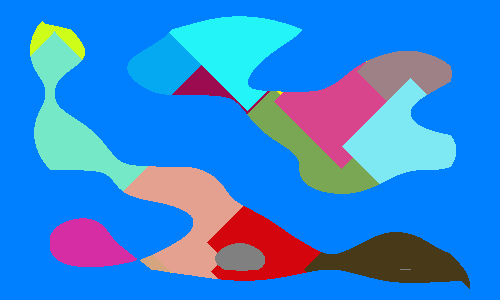
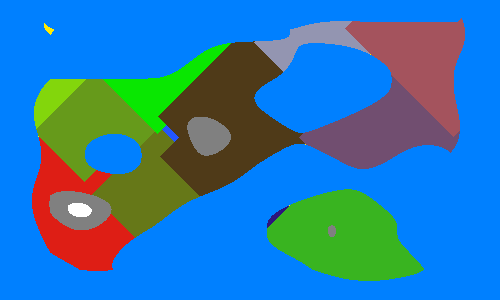
OnClick Province Borders for selected Province (ProvincesMap)

diff --git a/Assets/Provinces/ProvincesMap.cs b/Assets/Provinces/ProvincesMap.cs
@@ -2,14 +2,17 @@ using System.Collections.Generic;
 using UnityEngine;
 using System.Linq;
 using Vector3 = UnityEngine.Vector3;
+using UnityEngine.U2D;
 
 public class ProvincesMap : MonoBehaviour
 {
     public IProvinceDisplayer ProvinceDisplayer;
-    
+
     public HashSet<Province> Provinces = new HashSet<Province>();
-    
+
     private Texture2D mapImage;
+
+    public Province selectedProvince;
 
     public void ShowTerrain()
     {
@@ -35,15 +38,104 @@ public class ProvincesMap : MonoBehaviour
         if (Input.GetMouseButtonDown(0))
         {
             var clickedProvince = GetProvince(Input.mousePosition);
-            //Debug.Log(clickedProvince.Name);
+            var texture = GetComponent<SpriteRenderer>().sprite.texture;
+            var pixels = texture.GetPixels32();
+            if (clickedProvince == null)
+            {
+                if (this.selectedProvince == null)
+                {
+                    return;
+                }
+
+                pixels = this.selectedProvince.Deselect(pixels, new Vector2(texture.width, texture.height));
+                texture.SetPixels32(pixels);
+                texture.Apply();
+                this.selectedProvince = null;
+                return;
+            }
+
+            if (this.selectedProvince != null)
+            {
+                pixels = this.selectedProvince.Deselect(pixels, new Vector2(texture.width, texture.height));
+                texture.SetPixels32(pixels);
+                texture.Apply();
+            }
+
+            pixels = clickedProvince.Select(pixels, new Vector2(texture.width, texture.height));
+            texture.SetPixels32(pixels);
+            texture.Apply();
+            this.selectedProvince = clickedProvince;
             this.ProvinceDisplayer.DisplayProvince(clickedProvince);
         }
+    }
+
+    private List<MapPixel> FindProvinceBorders(Color32[] provinceMap, Vector2 mapDimension, Province province)
+    {
+        var borderPixel = new List<MapPixel>();
+
+        for (var x = 0; x < mapDimension.x; x++)
+        {
+            for (var y = 0; y < mapDimension.y; y++)
+            {
+                var pixelColor = provinceMap[y * (int)mapDimension.x + x];
+                if (!pixelColor.Equals(province.Color))
+                {
+                    continue;
+                }
+
+                if (ColorHelper.ColorListContainsColor(ColorHelper.ColorsUsedInTerrain, pixelColor))
+                {
+                    continue;
+                }
+
+                var neighbours = GetNeighbours(y * (int)mapDimension.x + x, (int)mapDimension.x, (int)mapDimension.y);
+                foreach (var neighbour in neighbours)
+                {
+                    var neighbourColor = provinceMap[neighbour];
+                    if (neighbourColor.Equals(ColorHelper.blue) || !pixelColor.Equals(neighbourColor) && (!ColorHelper.ColorListContainsColor(ColorHelper.ColorsUsedInTerrain, neighbourColor)))
+                    {
+                        borderPixel.Add(new MapPixel()
+                        {
+                            Color = Color.black,
+                            Position = new Vector2(x, y)
+                        });
+                    }
+                }
+            }
+        }
+        return borderPixel;
+    }
+
+    public static List<int> GetNeighbours(int pixelIndex, int mapWidth, int mapHeight)
+    {
+        List<int> neighbours = new List<int>();
+
+        int x = pixelIndex % mapWidth;
+        int y = pixelIndex / mapWidth;
+
+        for (int i = -1; i <= 1; i++)
+        {
+            for (int j = -1; j <= 1; j++)
+            {
+                int neighborX = x + i;
+                int neighborY = y + j;
+
+                // Check if the neighbor is within bounds
+                if (neighborX >= 0 && neighborX < mapWidth && neighborY >= 0 && neighborY < mapHeight)
+                {
+                    int neighborIndex = neighborY * mapWidth + neighborX;
+                    neighbours.Add(neighborIndex);
+                }
+            }
+        }
+
+        return neighbours;
     }
 
     public Province GetProvince(Vector3 mousePosition)
     {
         var provinceColor = ColorHelper.GetColor(Camera.main, mousePosition);
-        return Provinces.Where(p => p.Color == provinceColor).FirstOrDefault();
+        return Provinces.Where(p => p.Color.Equals(provinceColor)).FirstOrDefault();
     }
 
     private void InitProvinces()
@@ -100,5 +192,11 @@ public class ProvincesMap : MonoBehaviour
                 }
             }
         }
+
+        foreach (var province in this.Provinces)
+        {
+            province.BorderPixels = FindProvinceBorders(this.mapImage.GetPixels32(), new Vector2(this.mapImage.width, this.mapImage.height), province);
+        }
+
     }
 }

diff --git a/Assets/Provinces/Provinces.cs b/Assets/Provinces/Provinces.cs
@@ -1,13 +1,16 @@
+using System.Collections.Generic;
 using UnityEngine;
+using UnityEngine.UI;
 
 public class Province
 {
     public string Name { get; private set; }
     public Player Owner { get; set; }
     public int FootmenCount { get; set; }
-    public Color Color { get; internal set; }
+    public Color32 Color { get; internal set; }
+    public List<MapPixel> BorderPixels { get; set; }
 
-    public Province(string name, Player owner, int footmenCount, Color color)
+    public Province(string name, Player owner, int footmenCount, Color32 color)
     {
         Name = name;
         Owner = owner;
@@ -15,9 +18,27 @@ public class Province
         Color = color;
     }
 
-    public Province(string name, Color color)
+    public Province(string name, Color32 color)
     {
         Name = name;
         Color = color;
+    }
+
+    public Color32[] Deselect(Color32[] map, Vector2 mapDimension)
+    {
+        foreach (var borderPixel in this.BorderPixels)
+        {
+            map[(int)borderPixel.Position.y * (int)mapDimension.x + (int)borderPixel.Position.x] = this.Color;
+        }
+        return map;
+    }
+
+    public Color32[] Select(Color32[] map, Vector2 mapDimension)
+    {
+        foreach (var borderPixel in this.BorderPixels)
+        {
+            map[(int)borderPixel.Position.y * (int)mapDimension.x + (int)borderPixel.Position.x] = borderPixel.Color;
+        }
+        return map;
     }
 }

diff --git a/Assets/MapGenerator/MapGenerator.cs b/Assets/MapGenerator/MapGenerator.cs
@@ -72,7 +72,7 @@ public class MapGenerator : MonoBehaviour
 
         var states = GenerateStates(terrain);
 
-        AddStateBordersToTerrain(terrain, states);
+        //AddStateBordersToTerrain(terrain, states);
 
         return (terrain, states);
     }

diff --git a/Assets/Provinces/MapPixel.cs b/Assets/Provinces/MapPixel.cs
@@ -1,0 +1,7 @@
+using UnityEngine;
+
+public class MapPixel
+{
+    public Color32 Color;
+    public Vector2 Position;
+}
